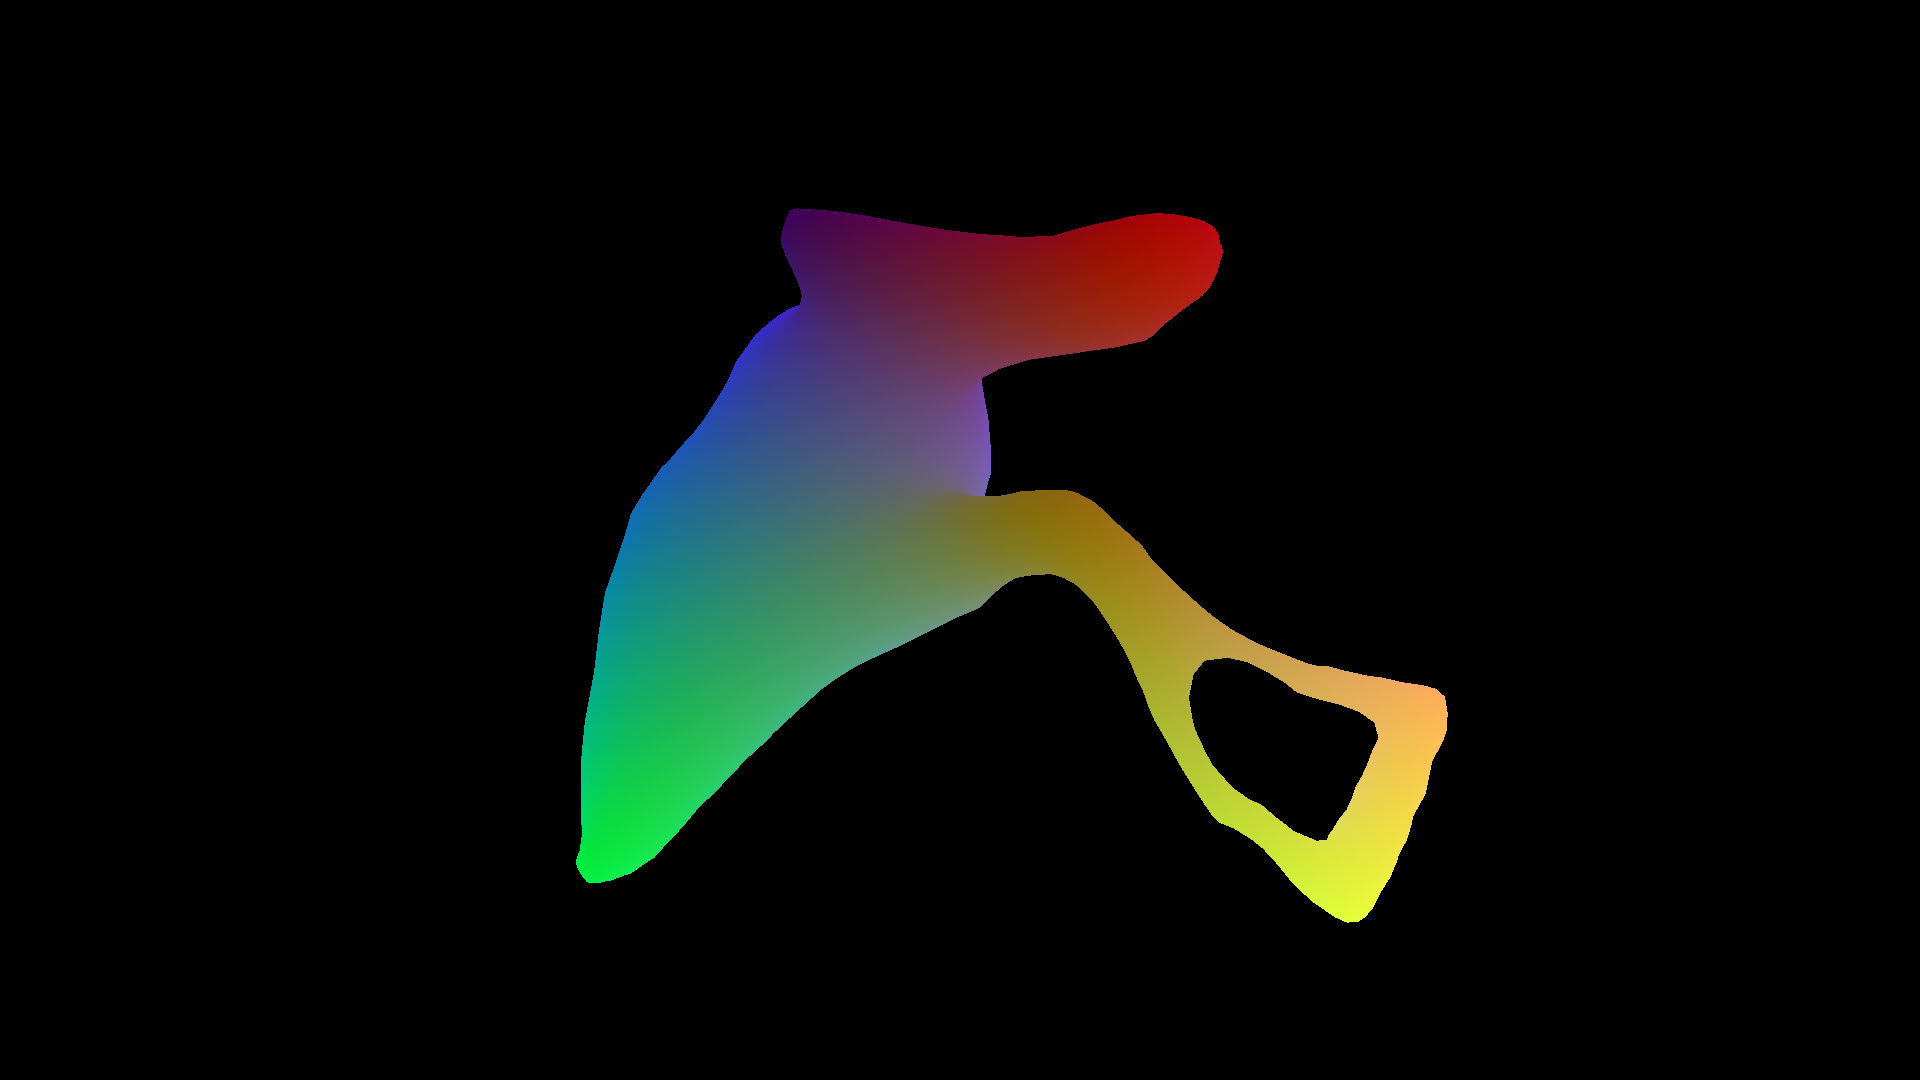
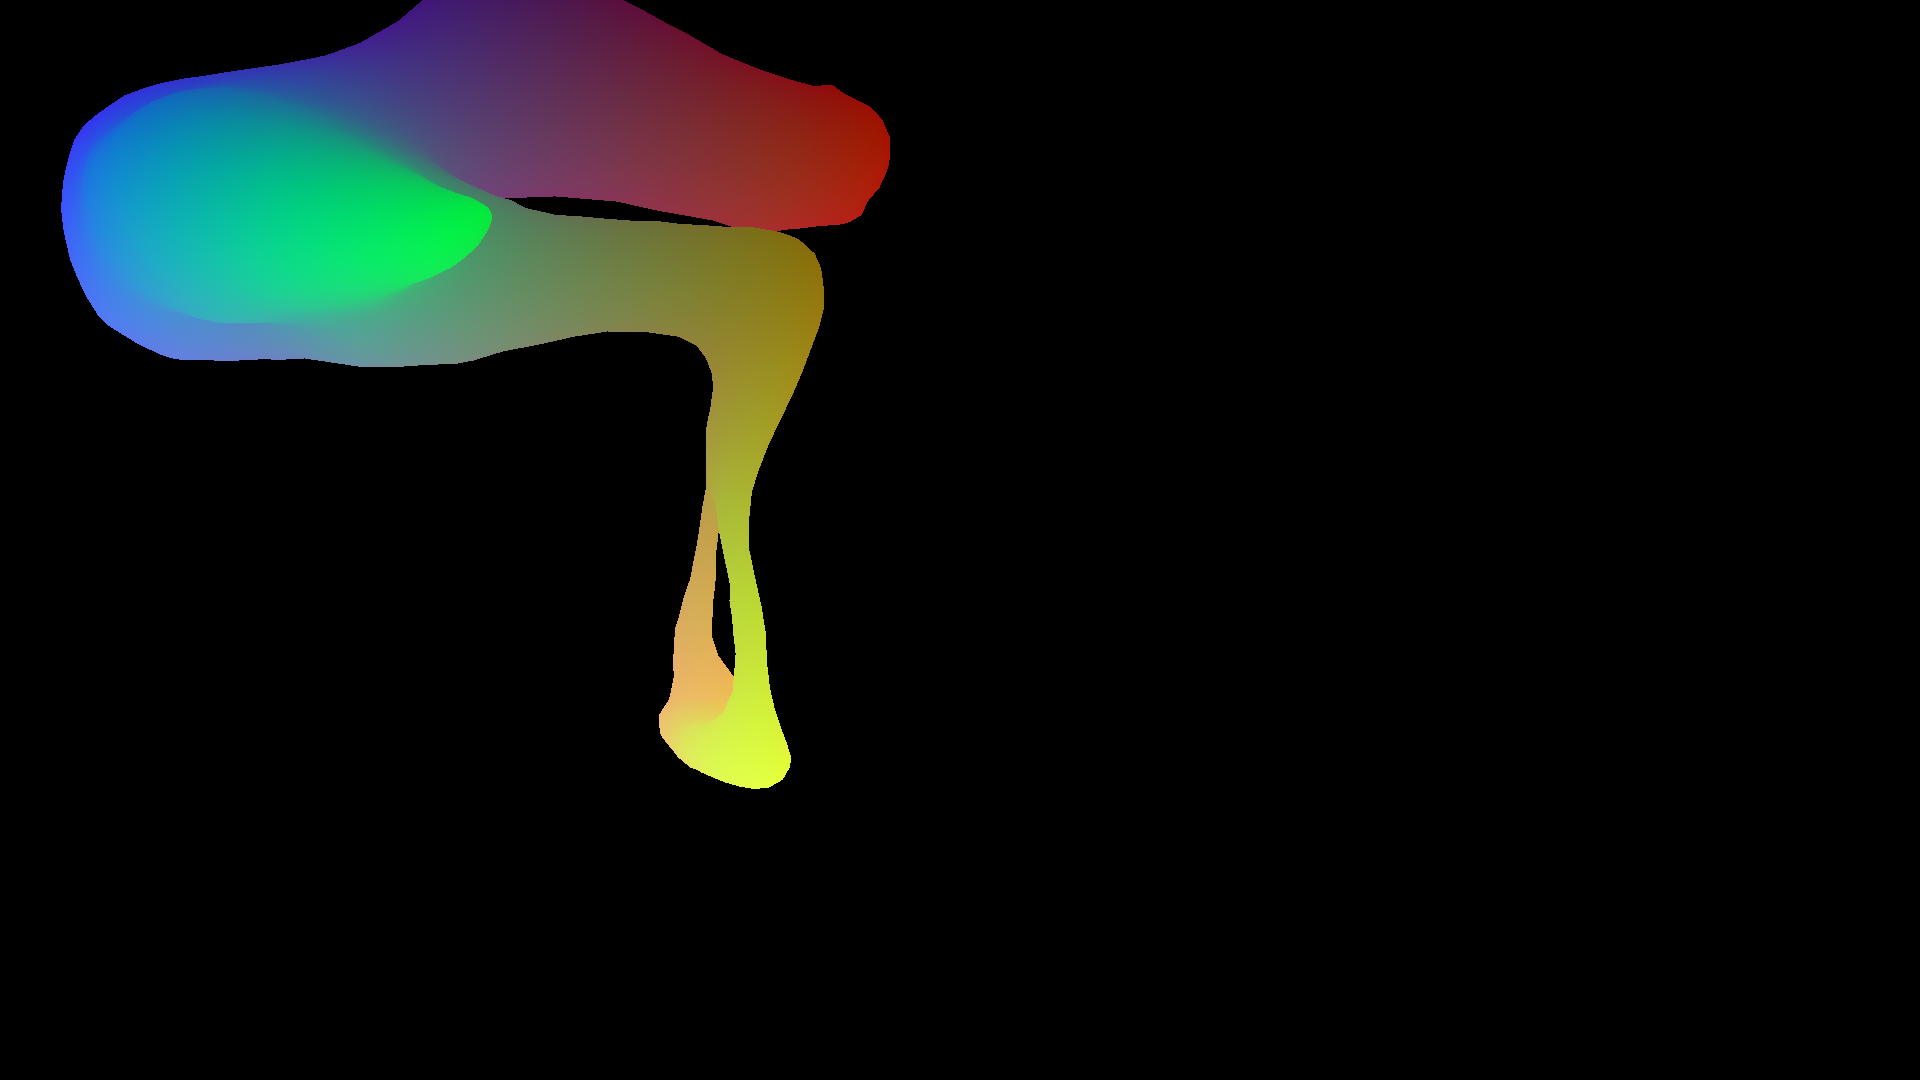
changes

Changed region(s): [[0.0312, 0.0, 0.7812, 0.8556]]

diff --git a/test/test_create_dataset.py b/test/test_create_dataset.py
@@ -33,49 +33,30 @@ def test_load_image(app):
     app.load_image(image_source, scale_factor=[0.01, 0.01, 1])
     app.set_reference("image")
     app.plot()
-    
-def test_flip_left_ossicles_color(app):
-
-    ossicles_path = vis.config.OP_DATA_DIR / "surgical_planning"/ "CIP.6742.8381574350255_video_trim" / "mesh" / "6742_right_ossicles.mesh"
-
-    app.load_meshes({'ossicles': ossicles_path}, app.transformation_matrix)
-    
-    app.plot()
-
-    rendered_mask_path = vis.config.DATA_DIR / "rendered_mask" / "rendered_mask_whole_6742.png"
-    rendered_mask = np.array(PIL.Image.open(rendered_mask_path)) / 255
-
-    modified_mask = np.where(rendered_mask != [0, 0, 0], 1 - rendered_mask, rendered_mask)
-    modified_mask = modified_mask[:, ::-1, ...]
-
-    vertices = getattr(app, f'ossicles_vertices')
-    pts2d, pts3d = vis.utils.create_2d_3d_pairs(modified_mask, vertices)
-    predicted_pose = vis.utils.solve_epnp_cv2(pts2d, pts3d, app.camera_intrinsics, app.camera.position)
-
-    print("hhhh")
 
 @pytest.mark.parametrize(
-    "image_path, ossicles_path, facial_nerve_path, chorda_path",
+    "image_path, ossicles_path, facial_nerve_path, chorda_path, gt_pose",
     [# right ossicles
-    (vis.config.IMAGE_PATH_455, vis.config.OSSICLES_MESH_PATH_455_right, vis.config.FACIAL_NERVE_MESH_PATH_455_right, vis.config.CHORDA_MESH_PATH_455_right),
-    (vis.config.IMAGE_PATH_5997, vis.config.OSSICLES_MESH_PATH_5997_right, vis.config.FACIAL_NERVE_MESH_PATH_5997_right, vis.config.CHORDA_MESH_PATH_5997_right),
-    (vis.config.IMAGE_PATH_6088, vis.config.OSSICLES_MESH_PATH_6088_right, vis.config.FACIAL_NERVE_MESH_PATH_6088_right, vis.config.CHORDA_MESH_PATH_6088_right),
-    (vis.config.IMAGE_PATH_6108, vis.config.OSSICLES_MESH_PATH_6108_right, vis.config.FACIAL_NERVE_MESH_PATH_6108_right, vis.config.CHORDA_MESH_PATH_6108_right),
-    (vis.config.IMAGE_PATH_632, vis.config.OSSICLES_MESH_PATH_632_right, vis.config.FACIAL_NERVE_MESH_PATH_632_right, vis.config.CHORDA_MESH_PATH_632_right),
-    (vis.config.IMAGE_PATH_6320, vis.config.OSSICLES_MESH_PATH_6320_right, vis.config.FACIAL_NERVE_MESH_PATH_6320_right, vis.config.CHORDA_MESH_PATH_6320_right),
-    (vis.config.IMAGE_PATH_6329, vis.config.OSSICLES_MESH_PATH_6329_right, vis.config.FACIAL_NERVE_MESH_PATH_6329_right, vis.config.CHORDA_MESH_PATH_6329_right),
-    (vis.config.IMAGE_PATH_6602, vis.config.OSSICLES_MESH_PATH_6602_right, vis.config.FACIAL_NERVE_MESH_PATH_6602_right, vis.config.CHORDA_MESH_PATH_6602_right),
-    (vis.config.IMAGE_PATH_6751, vis.config.OSSICLES_MESH_PATH_6751_right, vis.config.FACIAL_NERVE_MESH_PATH_6751_right, vis.config.CHORDA_MESH_PATH_6751_right),
+    (vis.config.IMAGE_PATH_455, vis.config.OSSICLES_MESH_PATH_455_right, vis.config.FACIAL_NERVE_MESH_PATH_455_right, vis.config.CHORDA_MESH_PATH_455_right, vis.config.gt_pose_455_right),
+    (vis.config.IMAGE_PATH_5997, vis.config.OSSICLES_MESH_PATH_5997_right, vis.config.FACIAL_NERVE_MESH_PATH_5997_right, vis.config.CHORDA_MESH_PATH_5997_right, vis.config.gt_pose_5997_right),
+    (vis.config.IMAGE_PATH_6088, vis.config.OSSICLES_MESH_PATH_6088_right, vis.config.FACIAL_NERVE_MESH_PATH_6088_right, vis.config.CHORDA_MESH_PATH_6088_right, vis.config.gt_pose_6088_right),
+    (vis.config.IMAGE_PATH_6108, vis.config.OSSICLES_MESH_PATH_6108_right, vis.config.FACIAL_NERVE_MESH_PATH_6108_right, vis.config.CHORDA_MESH_PATH_6108_right, vis.config.gt_pose_6108_right),
+    (vis.config.IMAGE_PATH_632, vis.config.OSSICLES_MESH_PATH_632_right, vis.config.FACIAL_NERVE_MESH_PATH_632_right, vis.config.CHORDA_MESH_PATH_632_right, vis.config.gt_pose_632_right),
+    (vis.config.IMAGE_PATH_6320, vis.config.OSSICLES_MESH_PATH_6320_right, vis.config.FACIAL_NERVE_MESH_PATH_6320_right, vis.config.CHORDA_MESH_PATH_6320_right, vis.config.gt_pose_6320_right),
+    (vis.config.IMAGE_PATH_6329, vis.config.OSSICLES_MESH_PATH_6329_right, vis.config.FACIAL_NERVE_MESH_PATH_6329_right, vis.config.CHORDA_MESH_PATH_6329_right, vis.config.gt_pose_6329_right),
+    (vis.config.IMAGE_PATH_6602, vis.config.OSSICLES_MESH_PATH_6602_right, vis.config.FACIAL_NERVE_MESH_PATH_6602_right, vis.config.CHORDA_MESH_PATH_6602_right, vis.config.gt_pose_6602_right),
+    (vis.config.IMAGE_PATH_6751, vis.config.OSSICLES_MESH_PATH_6751_right, vis.config.FACIAL_NERVE_MESH_PATH_6751_right, vis.config.CHORDA_MESH_PATH_6751_right, vis.config.gt_pose_6751_right),
     # left ossicles
-    (vis.config.IMAGE_PATH_6742, vis.config.OSSICLES_MESH_PATH_6742_left, vis.config.FACIAL_NERVE_MESH_PATH_6742_left, vis.config.CHORDA_MESH_PATH_6742_left),
-    (vis.config.IMAGE_PATH_6087, vis.config.OSSICLES_MESH_PATH_6087_left, vis.config.FACIAL_NERVE_MESH_PATH_6087_left, vis.config.CHORDA_MESH_PATH_6087_left),
+    (vis.config.IMAGE_PATH_6742, vis.config.OSSICLES_MESH_PATH_6742_left, vis.config.FACIAL_NERVE_MESH_PATH_6742_left, vis.config.CHORDA_MESH_PATH_6742_left, vis.config.gt_pose_6742_left),
+    (vis.config.IMAGE_PATH_6087, vis.config.OSSICLES_MESH_PATH_6087_left, vis.config.FACIAL_NERVE_MESH_PATH_6087_left, vis.config.CHORDA_MESH_PATH_6087_left, vis.config.gt_pose_6087_left),
     ]
 )  
-def test_load_mesh(app, image_path, ossicles_path, facial_nerve_path, chorda_path):
+def test_load_mesh(app, image_path, ossicles_path, facial_nerve_path, chorda_path, gt_pose):
     image_numpy = np.array(Image.open(image_path)) # (H, W, 3)
     app.load_image(image_numpy)
     app.set_reference('ossicles')
-    app.load_meshes({'ossicles': ossicles_path, 'facial_nerve': facial_nerve_path, 'chorda': chorda_path}, app.transformation_matrix)
+    app.set_transformation_matrix(gt_pose)
+    app.load_meshes({'ossicles': ossicles_path, 'facial_nerve': facial_nerve_path, 'chorda': chorda_path})
     app.bind_meshes("ossicles", "g")
     app.bind_meshes("chorda", "h")
     app.bind_meshes("facial_nerve", "j")
@@ -111,7 +92,7 @@ def test_load_mesh_from_dataset(app, image_path, ossicles_path, facial_nerve_pat
         image_numpy = image_numpy[:, ::-1, ...]
     app.load_image(image_numpy)
     app.set_transformation_matrix(RT)
-    app.load_meshes({'ossicles': ossicles_path, 'facial_nerve': facial_nerve_path, 'chorda': chorda_path}, app.transformation_matrix)
+    app.load_meshes({'ossicles': ossicles_path, 'facial_nerve': facial_nerve_path, 'chorda': chorda_path})
     app.bind_meshes("ossicles", "g")
     app.bind_meshes("chorda", "h")
     app.bind_meshes("facial_nerve", "j")
@@ -119,40 +100,41 @@ def test_load_mesh_from_dataset(app, image_path, ossicles_path, facial_nerve_pat
     app.plot()
 
 @pytest.mark.parametrize(
-    "mesh_path, mirror_objects",
-    [(vis.config.OSSICLES_MESH_PATH_5997_right, False), 
-    (vis.config.OSSICLES_MESH_PATH_6088_right, False),
-    (vis.config.OSSICLES_MESH_PATH_6108_right, False),
-    (vis.config.OSSICLES_MESH_PATH_632_right, False),
-    (vis.config.OSSICLES_MESH_PATH_6320_right, False),
-    (vis.config.OSSICLES_MESH_PATH_6329_right, False),
-    (vis.config.OSSICLES_MESH_PATH_6602_right, False),
-    (vis.config.OSSICLES_MESH_PATH_6751_right, False),
-    (vis.config.OSSICLES_MESH_PATH_455_right, False),
+    "mesh_path, gt_pose, mirror_objects",
+    [(vis.config.OSSICLES_MESH_PATH_455_right, vis.config.gt_pose_455_right, False),
+    (vis.config.OSSICLES_MESH_PATH_5997_right, vis.config.gt_pose_5997_right, False), 
+    (vis.config.OSSICLES_MESH_PATH_6088_right, vis.config.gt_pose_6088_right, False),
+    (vis.config.OSSICLES_MESH_PATH_6108_right, vis.config.gt_pose_6108_right, False),
+    (vis.config.OSSICLES_MESH_PATH_632_right, vis.config.gt_pose_632_right, False),
+    (vis.config.OSSICLES_MESH_PATH_6320_right, vis.config.gt_pose_6320_right, False),
+    (vis.config.OSSICLES_MESH_PATH_6329_right, vis.config.gt_pose_6329_right, False),
+    (vis.config.OSSICLES_MESH_PATH_6602_right, vis.config.gt_pose_6602_right, False),
+    (vis.config.OSSICLES_MESH_PATH_6751_right, vis.config.gt_pose_6751_right, False),
+    
+    (vis.config.OSSICLES_MESH_PATH_6742_left, vis.config.gt_pose_6742_left, False),
+    (vis.config.OSSICLES_MESH_PATH_6742_left, vis.config.gt_pose_6742_left, True),
 
-    (vis.config.OSSICLES_MESH_PATH_6742_left, False),
-    (vis.config.OSSICLES_MESH_PATH_6742_left, True),
-
-    (vis.config.OSSICLES_MESH_PATH_6742_right, False),
+    (vis.config.OSSICLES_MESH_PATH_6742_right, vis.config.gt_pose_6742_right, False),
     ]
 )
-def test_render_scene(app, mesh_path, mirror_objects):
+def test_render_scene(app, mesh_path, gt_pose, mirror_objects):
     app.set_register(True)
     app.set_mirror_objects(mirror_objects)
-    app.load_meshes({'ossicles': mesh_path}, app.transformation_matrix)
+    app.set_transformation_matrix(gt_pose)
+    app.load_meshes({'ossicles': mesh_path})
     image_np = app.render_scene(render_image=False, render_objects=['ossicles'])
+    # point = (image_np[542, 946] / 255).astype('float32')
     plt.imshow(image_np)
-    image = Image.fromarray(image_np)
-    plt.imshow(image)
     plt.show()
+    print("hhh")
     
 def test_save_plot(app):
     app.set_register(False)
+    app.set_transformation_matrix(np.eye(4))
     image_numpy = np.array(Image.open(vis.config.IMAGE_PATH_5997)) # (H, W, 3)
     app.load_image(image_numpy)
 
-    app.load_meshes({'ossicles': vis.config.OSSICLES_MESH_PATH_5997_right, 'facial_nerve': vis.config.FACIAL_NERVE_MESH_PATH_5997_right, 'chorda': vis.config.CHORDA_MESH_PATH_5997_right}, 
-                    app.transformation_matrix)
+    app.load_meshes({'ossicles': vis.config.OSSICLES_MESH_PATH_5997_right, 'facial_nerve': vis.config.FACIAL_NERVE_MESH_PATH_5997_right, 'chorda': vis.config.CHORDA_MESH_PATH_5997_right})
 
     app.bind_meshes("ossicles", "g")
     app.bind_meshes("chorda", "h")
@@ -212,7 +194,7 @@ def test_pnp_from_dataset(name, hand_draw_mask, ossicles_path, RT, resize, mirro
     seg_mask = np.expand_dims(seg_mask, axis=-1)
         
     app.set_transformation_matrix(RT)
-    app.load_meshes({'ossicles': ossicles_path}, app.transformation_matrix)
+    app.load_meshes({'ossicles': ossicles_path})
     app.plot()
 
     # Create rendering

diff --git a/vision6D/app.py b/vision6D/app.py
@@ -28,7 +28,7 @@ class App:
         self.window_size = (int(width*scale), int(height*scale))
         self.scale = scale
         self.mirror_objects = mirror_objects
-        self.transformation_matrix = np.eye(4)
+        self.transformation_matrix = None
         self.reference = None
         
         # initial the dictionaries
@@ -142,7 +142,9 @@ class App:
         self.image_actors["image"] = actor
         self.image_actors["image-origin"] = actor.copy()        
 
-    def load_meshes(self, paths: Dict[str, (pathlib.Path or pv.PolyData)], transformation_matrix):
+    def load_meshes(self, paths: Dict[str, (pathlib.Path or pv.PolyData)]):
+
+        assert self.transformation_matrix is not None, "Need to set the transformation matrix first!"
                 
         for mesh_name, mesh_source in paths.items():
             
@@ -166,7 +168,7 @@ class App:
             mesh = self.pv_plotter.add_mesh(mesh_data, rgb=True, opacity=self.surface_opacity, name=mesh_name) #, show_edges=True)
             
             # Set the transformation matrix to be the mesh's user_matrix
-            mesh.user_matrix = transformation_matrix
+            mesh.user_matrix = self.transformation_matrix
 
             # plot meshes
             # mesh.plot()
@@ -194,7 +196,7 @@ class App:
                 mesh_data.point_data.set_scalars(colors)
                 mesh = self.pv_plotter.add_mesh(mesh_data, rgb=True, opacity=self.surface_opacity, name=mesh_name)
                 # Set the transformation matrix to be the mesh's user_matrix
-                mesh.user_matrix = transformation_matrix
+                mesh.user_matrix = self.transformation_matrix
                 # Add and save the actor
                 actor, _ = self.pv_plotter.add_actor(mesh, pickable=True, name=mesh_name)
                 self.mesh_actors[mesh_name] = actor

diff --git a/trashcan.py b/trashcan.py
@@ -1211,3 +1211,25 @@ def center_meshes(self, paths: Dict[str, (pathlib.Path or pv.PolyData)]):
         # vis.utils.writemesh(paths[id], self.mesh_polydata[id].points.T, center=True)
 
     print('hhhh')
+
+def test_flip_left_ossicles_color(app):
+
+    ossicles_path = vis.config.OSSICLES_MESH_PATH_6742_left
+
+    app.set_transformation_matrix(np.eye(4))
+
+    app.load_meshes({'ossicles': ossicles_path})
+    
+    app.plot()
+
+    rendered_mask_path = vis.config.DATA_DIR / "rendered_mask" / "rendered_mask_whole_6742.png"
+    rendered_mask = np.array(PIL.Image.open(rendered_mask_path)) / 255
+
+    modified_mask = np.where(rendered_mask != [0, 0, 0], 1 - rendered_mask, rendered_mask)
+    modified_mask = modified_mask[:, ::-1, ...]
+
+    vertices = getattr(app, f'ossicles_vertices')
+    pts2d, pts3d = vis.utils.create_2d_3d_pairs(modified_mask, vertices)
+    predicted_pose = vis.utils.solve_epnp_cv2(pts2d, pts3d, app.camera_intrinsics, app.camera.position)
+
+    print("hhhh")

diff --git a/vision6D/config.py b/vision6D/config.py
@@ -77,7 +77,11 @@ FACIAL_NERVE_MESH_PATH_6742_right = OP_DATA_DIR / "surgical_planning"/ "CIP.6742
 CHORDA_MESH_PATH_6742_right = OP_DATA_DIR / "surgical_planning"/ "CIP.6742.8381574350255_video_trim" / "mesh" / "6742_left_chorda_processed_right.mesh"
 
 # right ossicles
-gt_pose_455_right = np.eye(4)
+# gt_pose_455_right = np.eye(4)
+gt_pose_455_right = np.array([[ 0.38100506, -0.036584,   -0.92384888, -4.78796069],
+                            [ 0.68508419,  0.68217898,  0.25552199, -2.45344322],
+                            [ 0.62088227, -0.73026943,  0.28497676,  0.01822901],
+                            [ 0.,          0.,          0.,          1.        ]])
 gt_pose_5997_right = np.eye(4)
 gt_pose_6088_right = np.eye(4)
 gt_pose_6108_right = np.eye(4)
